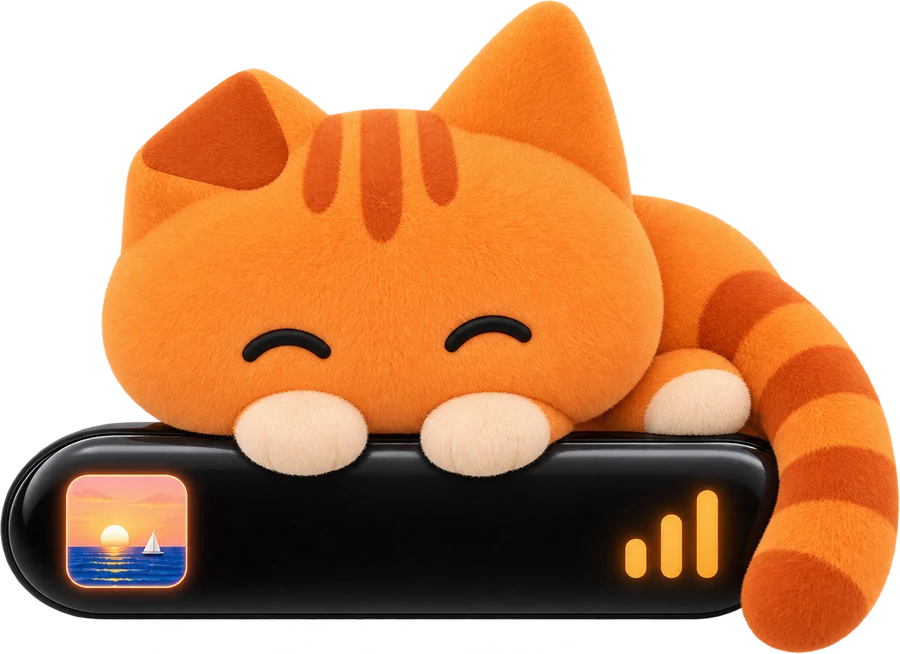
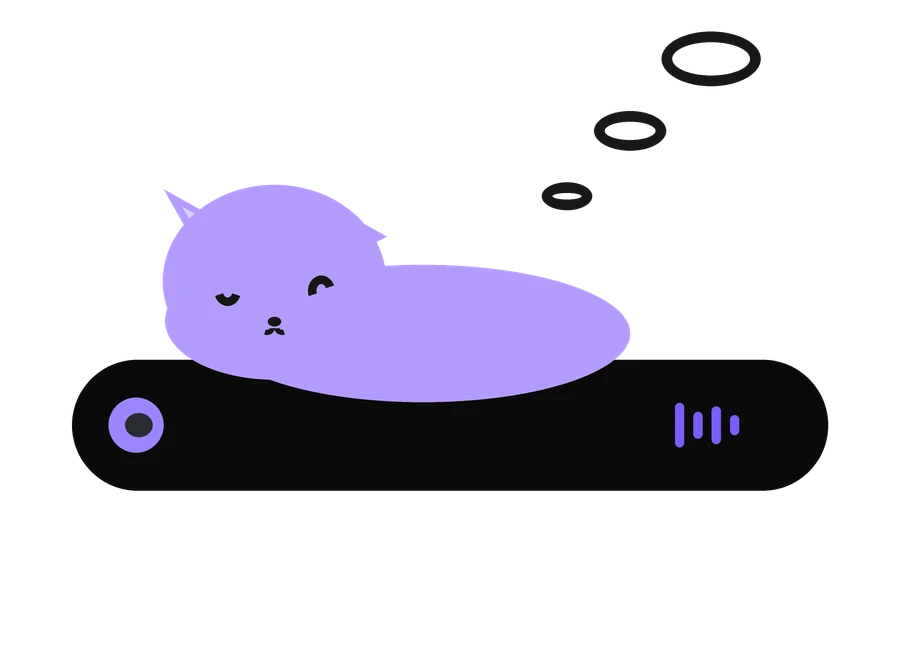
site: Nexora's own pose art replaces the upstream plush photographs
tools/make_brand_art.py draws the three island scenes (peek, sit,
asleep) and the ten page poses — the same flat violet Nova the phone
page uses — at the exact sizes the site's HTML carries, plus a new
social preview card from the logo tile and the Outfit wordmark.

diff --git a/tools/make_brand_art.py b/tools/make_brand_art.py
@@ -1,0 +1,285 @@
+#!/usr/bin/env python3
+"""Draw the website's Nova art in docs/brand/art: the three island scenes
+(nexora-peek, nexora-sit, nexora-asleep) and the ten page poses, flat, in
+Nexora's violets — the same cat server/make_phone_art.py draws.
+
+  nexora-peek.webp   Nova peeking over the island while a song plays (hero)
+  nexora-sit.webp    Nova sitting on the island (installer, page pictures)
+  nexora-asleep.webp Nova asleep on the island (the Nova theme section)
+  poses/nova-*.webp  Nova with each page's prop
+
+Run: python3 tools/make_brand_art.py   (needs Pillow)
+"""
+import sys
+from pathlib import Path
+
+sys.path.insert(0, str(Path(__file__).resolve().parent.parent / "server"))
+from make_phone_art import (  # noqa: E402
+    FUR, FUR_DARK, INNER, INK, SS, canvas, head, paw, rrect, ellipse, tail,
+)
+from PIL import Image, ImageDraw  # noqa: E402
+
+ROOT = Path(__file__).resolve().parent.parent
+OUT = ROOT / "docs" / "brand" / "art"
+
+
+def save(img: Image.Image, w: int, h: int, name: str):
+    img.resize((w, h), Image.LANCZOS).save(OUT / name, quality=90, method=4)
+    print(f"art/{name}  {w}x{h}")
+
+ISLAND = "#0A0A0A"
+ACCENT = "#7C5CFF"
+ACCENT_HI = "#9D85FF"
+PORCELAIN = "#F3F0FF"
+PAPER = "#FFFFFF"
+
+
+def island(d, w, h, x0, y0, wpx, hpx, playing=True):
+    """The island: a black pill with an album dot and equalizer bars."""
+    rrect(d, [x0, y0, x0 + wpx, y0 + hpx], hpx / 2, fill=ISLAND)
+    if not playing:
+        return
+    dot = hpx * 0.42
+    dxy = y0 + hpx * 0.29
+    ellipse(d, [x0 + hpx * 0.28, dxy, x0 + hpx * 0.28 + dot, dxy + dot], fill=ACCENT_HI)
+    ellipse(d, [x0 + hpx * 0.28 + dot * 0.3, dxy + dot * 0.28, x0 + hpx * 0.28 + dot * 0.8, dxy + dot * 0.72], fill="#2B2B33")
+    for i, k in enumerate((0.45, 0.85, 0.6, 1.0)):
+        bh = hpx * 0.34 * k
+        bx = x0 + wpx - hpx * 0.75 - i * hpx * 0.14
+        rrect(d, [bx, y0 + hpx / 2 - bh / 2, bx + hpx * 0.07, y0 + hpx / 2 + bh / 2], hpx * 0.035, fill=ACCENT)
+
+
+def peek(w, h):
+    img, d, _ = canvas(w, h)
+    bar_y = h * 0.52
+    island(d, w, h, w * 0.10, bar_y, w * 0.80, h * 0.34)
+    head(d, w * 0.5, bar_y - h * 0.075, h * 0.082)
+    for sx in (-1, 1):
+        paw(d, w * 0.5 + sx * w * 0.062, bar_y + h * 0.02, h * 0.033)
+    save(img, w, h, "nexora-peek.webp")
+
+
+def sit(w, h):
+    img, d, _ = canvas(w, h)
+    cx = w * 0.5
+    top = h * 0.62
+    island(d, w, h, w * 0.06, top, w * 0.88, h * 0.16)
+    # Nova sits on the island: body above it, tail down its front
+    body_top = top - h * 0.185
+    rrect(d, [cx - w * 0.19, body_top + h * 0.06, cx + w * 0.19, top + h * 0.035], w * 0.17, fill=FUR)
+    head(d, cx, body_top - h * 0.005, w * 0.13)
+    for sx in (-1, 1):
+        paw(d, cx + sx * w * 0.115, top - h * 0.02, w * 0.07)
+    d.arc([(cx + w * 0.14) * SS, (top - h * 0.1) * SS, (cx + w * 0.30) * SS, (top + h * 0.16) * SS],
+          250, 90, fill=FUR_DARK, width=round(h * 0.02 * SS))
+    save(img, w, h, "nexora-sit.webp")
+
+
+def asleep(w, h):
+    img, d, _ = canvas(w, h)
+    top = h * 0.55
+    island(d, w, h, w * 0.08, top, w * 0.84, h * 0.20)
+    # curled on top of the island, eyes closed
+    cx, cy = w * 0.46, top - h * 0.045
+    ellipse(d, [cx - w * 0.22, cy - h * 0.10, cx + w * 0.24, cy + h * 0.11], fill=FUR)
+    head(d, cx - w * 0.155, cy - h * 0.075, w * 0.105, eyes="closed")
+    for i, (zx, zy, r) in enumerate([(0.63, 0.30, 0.028), (0.70, 0.20, 0.04), (0.79, 0.09, 0.055)]):
+        zr = r * w
+        ellipse(d, [w * zx - zr, h * zy - zr * 0.55, w * zx + zr, h * zy + zr * 0.55], outline=INK, width=round(w * 0.012 * SS))
+    save(img, w, h, "nexora-asleep.webp")
+
+
+def base(w, h):
+    """A sitting Nova, centred, for the page poses. Returns (img, d, cx, ground)."""
+    img, d, _ = canvas(w, h)
+    cx = w * 0.5
+    ground = h * 0.94
+    body_h = h * 0.26
+    rrect(d, [cx - w * 0.26, ground - body_h, cx + w * 0.26, ground + body_h * 0.14], w * 0.2, fill=FUR)
+    head(d, cx, ground - body_h - h * 0.115, w * 0.155)
+    return img, d, cx, ground, body_h
+
+
+def prop_card(d, x, y, w, h, lines=3, r=None):
+    rrect(d, [x, y, x + w, y + h], (r or h * 0.08), fill=PAPER)
+    for i in range(lines):
+        ly = y + h * (0.26 + i * 0.2)
+        d.line([(x + w * 0.14) * SS, ly * SS, (x + w * (0.86 if i % 2 == 0 else 0.6)) * SS, ly * SS],
+               fill=ACCENT, width=round(h * 0.045 * SS))
+
+
+def pose_music(w, h):
+    img, d, cx, ground, body_h = base(w, h)
+    # headphones over the ears
+    hy = ground - body_h - h * 0.115
+    r = w * 0.19
+    d.arc([(cx - r) * SS, (hy - r) * SS, (cx + r) * SS, (hy + r * 0.9) * SS], 180, 360, fill=INK, width=round(w * 0.045 * SS))
+    for sx in (-1, 1):
+        rrect(d, [cx + sx * r - w * 0.055, hy - h * 0.01, cx + sx * r + w * 0.055, hy + h * 0.075], w * 0.045, fill=ACCENT)
+    # a couple of notes
+    for nx, ny, s in [(0.20, 0.24, 1.0), (0.30, 0.16, 0.75)]:
+        nr = w * 0.032 * s
+        ellipse(d, [w * nx - nr, h * ny - nr, w * nx + nr, h * ny + nr], fill=ACCENT)
+        d.line([(w * nx + nr) * SS, (h * ny) * SS, (w * nx + nr) * SS, (h * ny - h * 0.11 * s) * SS], fill=ACCENT, width=round(w * 0.02 * s * SS))
+    save(img, w, h, "poses/nova-music.webp")
+
+
+def pose_today(w, h):
+    img, d, cx, ground, body_h = base(w, h)
+    px, pw, ph = cx - w * 0.17, w * 0.34, h * 0.24
+    py = ground - body_h * 0.72
+    rrect(d, [px, py, px + pw, py + ph], h * 0.03, fill=PAPER)
+    rrect(d, [px, py, px + pw, py + ph * 0.28], h * 0.03, fill=ACCENT)
+    for r in range(2):
+        for c in range(4):
+            dot = ph * 0.075
+            dx = px + pw * (0.16 + c * 0.22) - dot / 2
+            dy = py + ph * (0.45 + r * 0.28) - dot / 2
+            filled = (r * 4 + c) % 5 == 0
+            ellipse(d, [dx, dy, dx + dot, dy + dot], fill=ACCENT if filled else "#C9C4E8")
+    save(img, w, h, "poses/nova-today.webp")
+
+
+def pose_shelf(w, h):
+    img, d, cx, ground, body_h = base(w, h)
+    bx, bw = cx - w * 0.42, w * 0.36
+    for i, col in enumerate([ACCENT, ACCENT_HI, "#5b3fd6"]):
+        by = ground - h * 0.14 - i * h * 0.052 - h * 0.052
+        rrect(d, [bx, by, bx + bw, by + h * 0.048], h * 0.02, fill=col)
+    rrect(d, [bx, ground - h * 0.14, bx + bw, ground], h * 0.025, fill="#2A2438")
+    save(img, w, h, "poses/nova-shelf.webp")
+
+
+def pose_tasks(w, h):
+    img, d, cx, ground, body_h = base(w, h)
+    px, pw, ph = cx - w * 0.17, w * 0.34, h * 0.24
+    py = ground - body_h * 0.72
+    rrect(d, [px, py, px + pw, py + ph], h * 0.03, fill=PAPER)
+    for i in range(3):
+        ty = py + ph * (0.24 + i * 0.26)
+        box = ph * 0.13
+        rrect(d, [px + pw * 0.13, ty - box / 2, px + pw * 0.13 + box, ty + box / 2], box * 0.25,
+              outline=ACCENT, width=round(h * 0.014 * SS))
+        if i < 2:  # the done ones carry a check
+            d.line([(px + pw * 0.165) * SS, ty * SS, (px + pw * 0.20) * SS, (ty + box * 0.2) * SS], fill=ACCENT, width=round(h * 0.014 * SS))
+            d.line([(px + pw * 0.20) * SS, (ty + box * 0.2) * SS, (px + pw * 0.27) * SS, (ty - box * 0.24) * SS], fill=ACCENT, width=round(h * 0.014 * SS))
+        d.line([(px + pw * 0.36) * SS, ty * SS, (px + pw * 0.85) * SS, ty * SS], fill="#C9C4E8", width=round(h * 0.02 * SS))
+    save(img, w, h, "poses/nova-tasks.webp")
+
+
+def pose_focus(w, h):
+    img, d, cx, ground, body_h = base(w, h)
+    r = w * 0.15
+    cxx, cy = cx, ground - body_h * 0.55
+    d.arc([(cxx - r) * SS, (cy - r) * SS, (cxx + r) * SS, (cy + r) * SS], 0, 360, fill="#C9C4E8", width=round(w * 0.055 * SS))
+    d.arc([(cxx - r) * SS, (cy - r) * SS, (cxx + r) * SS, (cy + r) * SS], 250, 375, fill=ACCENT, width=round(w * 0.055 * SS))
+    ellipse(d, [cxx - w * 0.02, cy - w * 0.02, cxx + w * 0.02, cy + w * 0.02], fill=INK)
+    save(img, w, h, "poses/nova-focus.webp")
+
+
+def pose_health(w, h):
+    img, d, cx, ground, body_h = base(w, h)
+    cxx, cy, r = cx, ground - body_h * 0.5, w * 0.075
+    for a, b, rr in [(0.0, 1.0, 1.0), (-0.09, 0.91, 1.0)]:
+        d.polygon([((cxx) * SS, (cy + r * 0.95) * SS),
+                   ((cxx - r * 1.25) * SS, (cy - r * 0.35) * SS),
+                   ((cxx - r * 0.6) * SS, (cy - r * 1.15) * SS),
+                   ((cxx) * SS, (cy - r * 0.45) * SS),
+                   ((cxx + r * 0.6) * SS, (cy - r * 1.15) * SS),
+                   ((cxx + r * 1.25) * SS, (cy - r * 0.35) * SS)], fill=ACCENT if a == 0.0 else "#9d85ff")
+    save(img, w, h, "poses/nova-health.webp")
+
+
+def pose_system(w, h):
+    img, d, cx, ground, body_h = base(w, h)
+    cxx, cy = cx, ground - body_h * 0.5
+    s = w * 0.11
+    rrect(d, [cxx - s, cy - s, cxx + s, cy + s], s * 0.22, fill="#2A2438")
+    rrect(d, [cxx - s * 0.62, cy - s * 0.62, cxx + s * 0.62, cy + s * 0.62], s * 0.12, fill=ACCENT)
+    for i in range(4):
+        off = -s * 0.6 + i * s * 0.4
+        d.line([(cxx + off) * SS, (cy - s) * SS, (cxx + off) * SS, (cy - s * 1.35) * SS], fill="#2A2438", width=round(s * 0.12 * SS))
+        d.line([(cxx + off) * SS, (cy + s) * SS, (cxx + off) * SS, (cy + s * 1.35) * SS], fill="#2A2438", width=round(s * 0.12 * SS))
+        d.line([(cxx - s) * SS, (cy + off) * SS, (cxx - s * 1.35) * SS, (cy + off) * SS], fill="#2A2438", width=round(s * 0.12 * SS))
+        d.line([(cxx + s) * SS, (cy + off) * SS, (cxx + s * 1.35) * SS, (cy + off) * SS], fill="#2A2438", width=round(s * 0.12 * SS))
+    save(img, w, h, "poses/nova-system.webp")
+
+
+def pose_prayer(w, h):
+    img, d, cx, ground, body_h = base(w, h)
+    cxx, cy = cx, ground - body_h * 0.5
+    lw, lh = w * 0.115, h * 0.155
+    rrect(d, [cxx - lw, cy - lh * 0.6, cxx + lw, cy + lh * 0.75], lw * 0.3, fill=ACCENT)
+    ellipse(d, [cxx - lw * 0.95, cy - lh * 0.15, cxx + lw * 0.95, cy + lh * 0.35], fill="#F3F0FF")
+    rrect(d, [cxx - lw * 0.55, cy - lh * 0.95, cxx + lw * 0.55, cy - lh * 0.55], lw * 0.2, fill=FUR_DARK)
+    d.line([(cxx) * SS, (cy - lh * 1.15) * SS, (cxx) * SS, (cy - lh * 0.9) * SS], fill=FUR_DARK, width=round(w * 0.02 * SS))
+    save(img, w, h, "poses/nova-prayer.webp")
+
+
+def pose_games(w, h):
+    img, d, cx, ground, body_h = base(w, h)
+    cxx, cy = cx, ground - body_h * 0.5
+    pw, ph = w * 0.21, h * 0.115
+    rrect(d, [cxx - pw, cy - ph, cxx + pw, cy + ph], ph * 0.75, fill="#2A2438")
+    for i, (sx, sy, col) in enumerate([(-0.5, -0.35, ACCENT), (-0.15, 0.1, ACCENT_HI), (0.45, -0.2, "#5b3fd6"), (0.75, 0.25, "#9d85ff")]):
+        br = ph * 0.17
+        ellipse(d, [cxx + sx * pw - br, cy + sy * ph - br, cxx + sx * pw + br, cy + sy * ph + br], fill=col)
+    d.line([(cxx - pw * 0.75) * SS, cy * SS, (cxx - pw * 0.45) * SS, cy * SS], fill="#F3F0FF", width=round(ph * 0.1 * SS))
+    d.line([(cxx - pw * 0.60) * SS, (cy - ph * 0.15) * SS, (cxx - pw * 0.60) * SS, (cy + ph * 0.15) * SS], fill="#F3F0FF", width=round(ph * 0.1 * SS))
+    save(img, w, h, "poses/nova-games.webp")
+
+
+def pose_clipboard(w, h):
+    img, d, cx, ground, body_h = base(w, h)
+    px, pw, ph = cx - w * 0.16, w * 0.32, h * 0.23
+    py = ground - body_h * 0.72
+    rrect(d, [px, py, px + pw, py + ph], h * 0.025, fill="#2A2438")
+    rrect(d, [px + pw * 0.08, py + ph * 0.06, px + pw * 0.92, py + ph * 0.94], h * 0.02, fill=PAPER)
+    rrect(d, [cx - pw * 0.12, py - ph * 0.06, cx + pw * 0.12, py + ph * 0.10], h * 0.012, fill=ACCENT)
+    for i in range(3):
+        ly = py + ph * (0.34 + i * 0.2)
+        d.line([(px + pw * 0.2) * SS, ly * SS, (px + pw * 0.8) * SS, ly * SS], fill="#C9C4E8", width=round(h * 0.02 * SS))
+    save(img, w, h, "poses/nova-clipboard.webp")
+
+
+def social_card():
+    """The repository's link preview: the logo tile, the name and the tag."""
+    w, h = 1280, 640
+    img = Image.new("RGBA", (w * SS, h * SS), (23, 23, 23, 255))
+    d = ImageDraw.Draw(img)
+    tile = Image.open(ROOT / "docs" / "brand" / "nexora-logo-512.png").convert("RGBA")
+    side = h * 0.62
+    art = tile.resize((round(side * SS), round(side * SS)), Image.LANCZOS)
+    img.alpha_composite(art, (round(w * 0.115 * SS), round((h - side) / 2 * SS)))
+    font_bold = str(ROOT / "crates" / "nexora" / "res" / "fonts" / "Outfit-Bold.ttf")
+    font_med = str(ROOT / "crates" / "nexora" / "res" / "fonts" / "Outfit-Medium.ttf")
+    from PIL import ImageFont
+    name = ImageFont.truetype(font_bold, round(h * 0.20 * SS))
+    tag = ImageFont.truetype(font_med, round(h * 0.055 * SS))
+    d.text((w * 0.415 * SS, h * 0.36 * SS), "Nexora", font=name, fill=(255, 255, 255, 255))
+    d.text((w * 0.42 * SS, h * 0.60 * SS), "A living notch for Windows and Mac", font=tag, fill=(180, 155, 255, 255))
+    img.resize((w, h), Image.LANCZOS).save(ROOT / "social-preview.png", quality=95)
+    print("social-preview.png  1280x640")
+
+
+def main():
+    OUT.mkdir(exist_ok=True)
+    (OUT / "poses").mkdir(exist_ok=True)
+    peek(1200, 661)
+    sit(893, 1200)
+    asleep(900, 654)
+    pose_music(480, 560)
+    pose_today(480, 499)
+    pose_shelf(480, 660)
+    pose_tasks(480, 577)
+    pose_focus(480, 466)
+    pose_health(480, 572)
+    pose_system(480, 602)
+    pose_prayer(480, 562)
+    pose_games(480, 492)
+    pose_clipboard(480, 477)
+    social_card()
+
+
+if __name__ == "__main__":
+    main()
